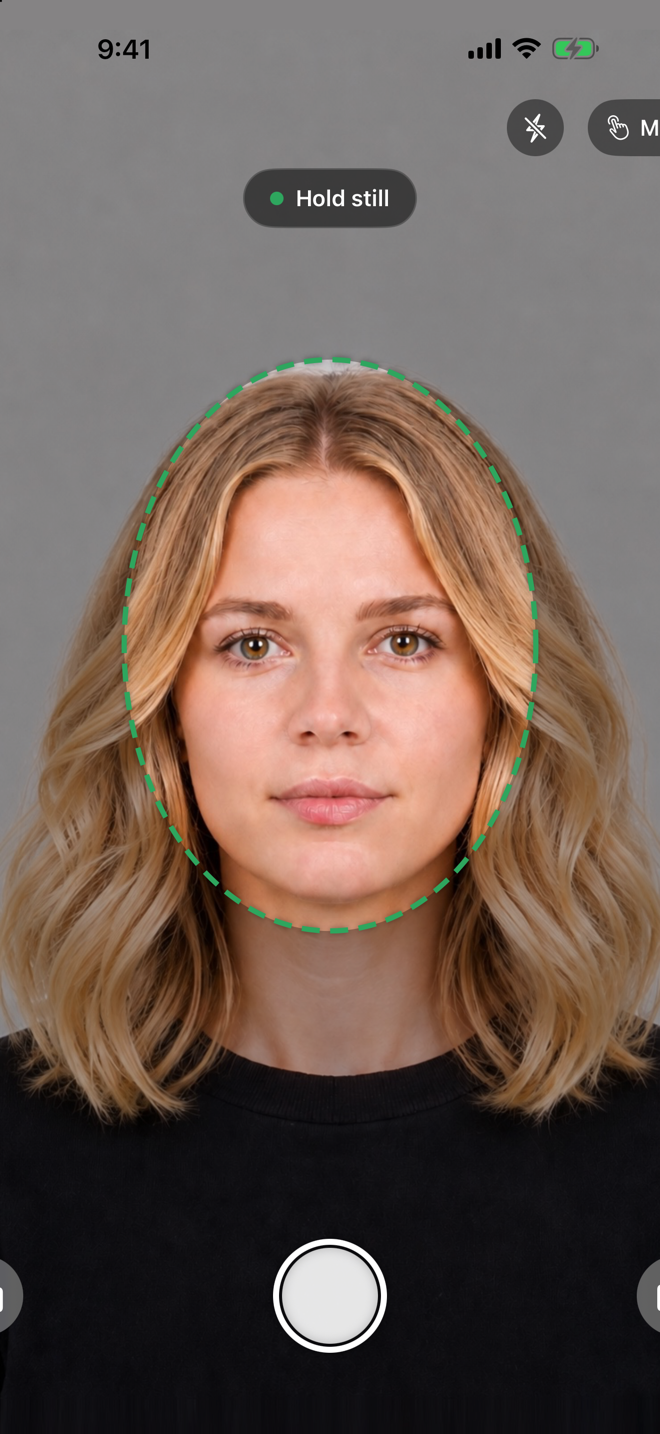
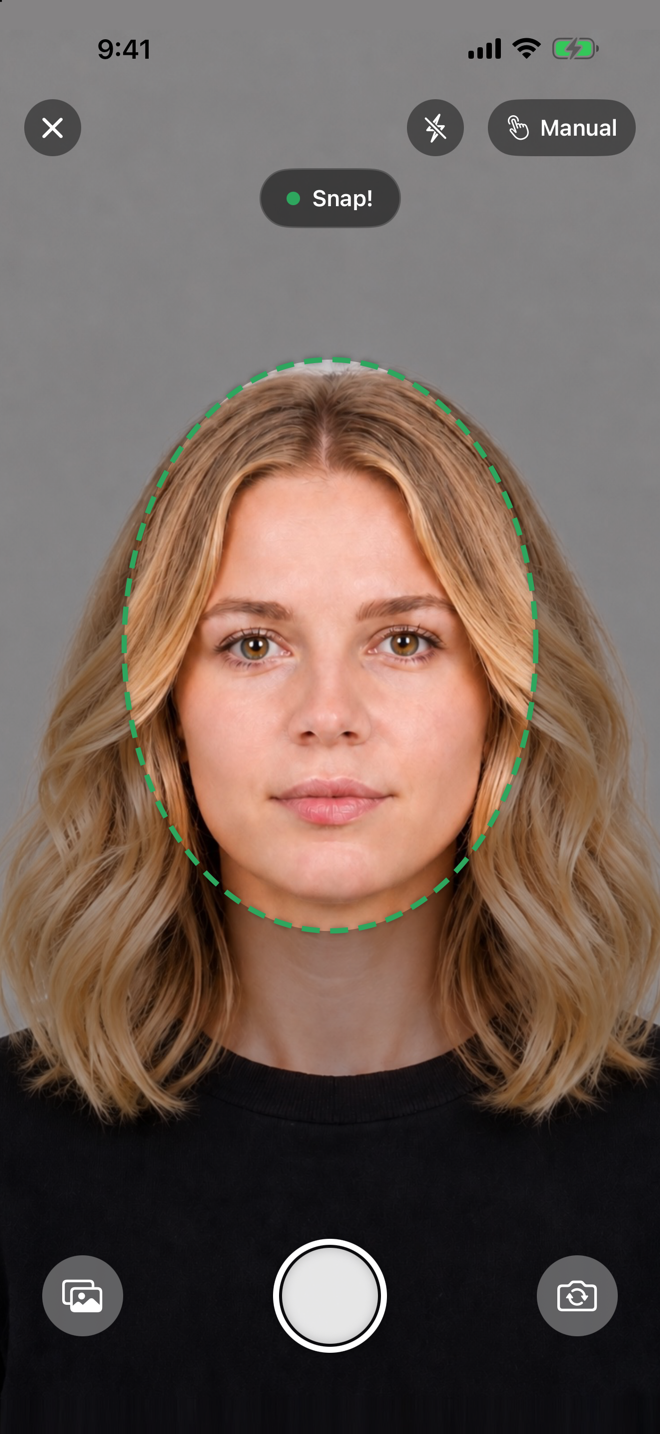
Site: fixed capture shot (all controls visible) + print export in carousel
Claude-Session: https://claude.ai/code/session_01CaHhGjY9UxBY94RGuE5RmT

diff --git a/index.html b/index.html
@@ -353,6 +353,11 @@
           <figcaption>Export, ready to submit<span>Digital files and 300 DPI print sheets</span></figcaption>
         </figure>
         <figure>
+          <div class="device"><img src="/img/04b_export_print.png" width="660" height="1434" loading="lazy"
+            alt="Ovalid print export: a 2 by 2 inch passport photo at 300 DPI, ready to print at home or at a kiosk"></div>
+          <figcaption>Print at home<span>2×2 in at 300 DPI — skip the drugstore counter</span></figcaption>
+        </figure>
+        <figure>
           <div class="device"><img src="/img/05_formats.png" width="660" height="1434" loading="lazy"
             alt="Ovalid document format picker listing US passport, DS-160, Schengen visa and many more countries"></div>
           <figcaption>Every country's rules<span>US, Schengen, China, India, Japan and more</span></figcaption>
